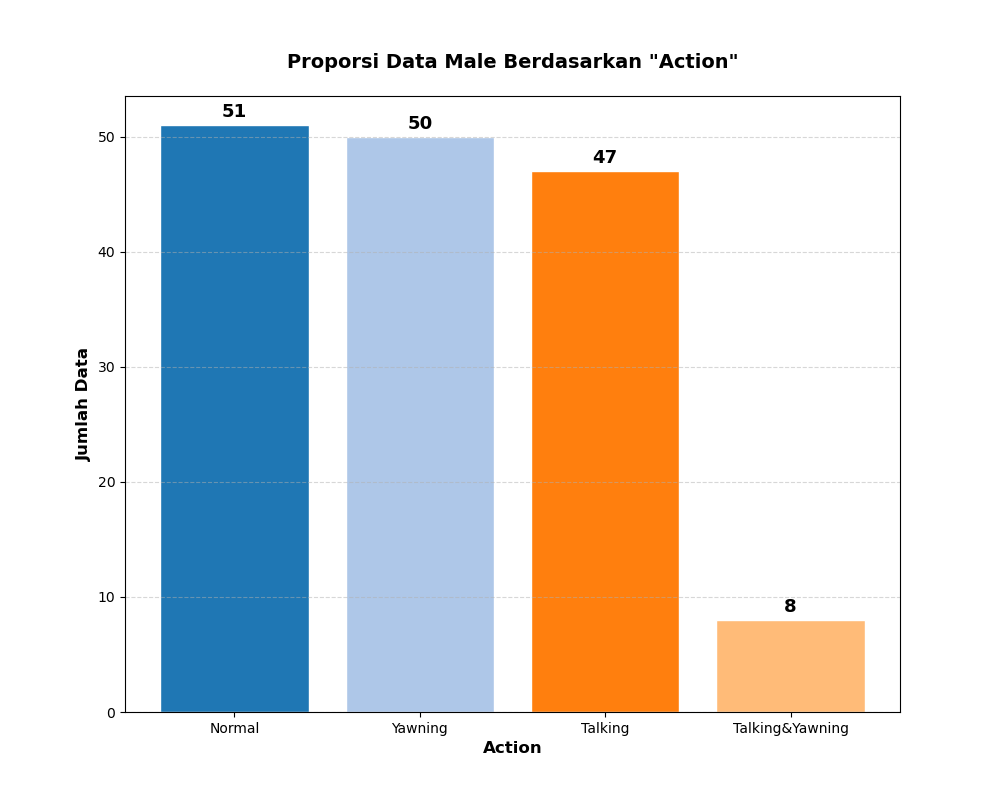
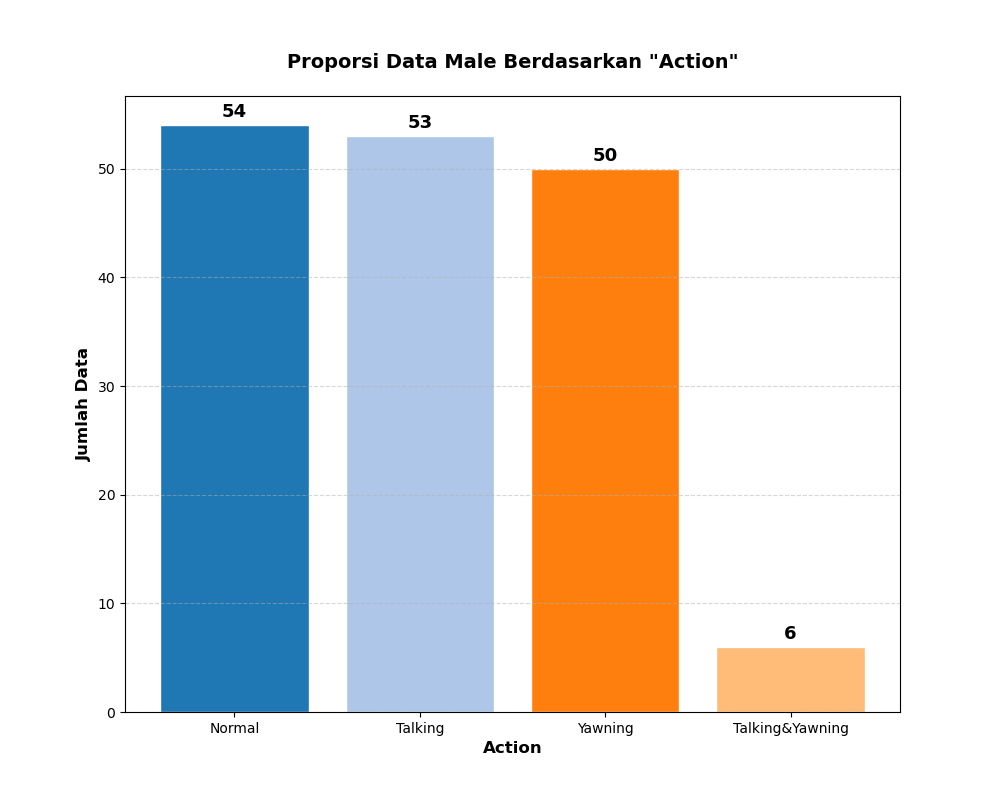
perbaikii plot

diff --git a/chapters/ch04/index.tex b/chapters/ch04/index.tex
@@ -94,7 +94,7 @@
              \label{male gambar1}
      \end{figure}
 
-    Pada kategori data \textit{male} terdapat total 162 video (.avi). Berdasarkan deskripsi data pada fitur \textit{"action"} mencakup kondisi seperti \textit{"talking"}, \textit{"yawning"}, \textit{"normal"} dan \textit{"yawning \& talking"}. Proporsi dan persentase data berdasarkan fitur \textit{action} pada kategori \textit{male} ditamilkan pada Gambar \ref{Proporsi Data Male Berdasarkan "Action"} berikut.
+    Pada kategori data \textit{male} terdapat total 163 video (.avi). Berdasarkan deskripsi data pada fitur \textit{"action"} mencakup kondisi seperti \textit{"talking"}, \textit{"yawning"}, \textit{"normal"} dan \textit{"yawning \& talking"}. Proporsi dan persentase data berdasarkan fitur \textit{action} pada kategori \textit{male} ditamilkan pada Gambar \ref{Proporsi Data Male Berdasarkan "Action"} berikut.
     
 
    
@@ -204,7 +204,7 @@
 
    
 
-     Terdapat 154 video pada kategori \textit{"female"}, fitur \textit{action} pada data mencakup keadaan \textit{"yawning"}, \textit{"talking"},\textit{"normal"} dan \textit{"yawning \& talking"}. Berikut proprosi untuk kategori \textit{action} di tampilkan pada Gambar \ref{Proporsi Data Female Berdasarkan "Action"} berikut.
+     Terdapat 156 video pada kategori \textit{"female"}, fitur \textit{action} pada data mencakup keadaan \textit{"yawning"}, \textit{"talking"},\textit{"normal"} dan \textit{"yawning \& talking"}. Berikut proprosi untuk kategori \textit{action} di tampilkan pada Gambar \ref{Proporsi Data Female Berdasarkan "Action"} berikut.
 
      \begin{figure}[H]
          \centering
@@ -213,7 +213,12 @@
          \label{Proporsi Data Female Berdasarkan "Action"}
      \end{figure}
 
-        Setelah dilakukan pemilihan fitur berdasarkan kolom \textit{action}, yaitu hanya keadaan \textit{"yawning"} dan \textit{"talking \& yawning"} yang dipilih. Dihasilkan jumlah data untuk kategori \textit{female} sebanyak 58 video. Data \textit{female} setelah dilakukan pemilihan fitur ditampilkan pada Tabel \ref{Data female setelah dilakukan pemilihan fitur} berikut.
+        Setelah dilakukan pemilihan fitur berdasarkan kolom 
+        \textit{action}, yaitu hanya keadaan \textit{"yawning"} dan
+         \textit{"talking \& yawning"} yang dipilih. Dihasilkan 
+         jumlah data untuk kategori \textit{female} sebanyak 58 video. 
+         Data \textit{female} setelah dilakukan pemilihan fitur 
+         ditampilkan pada Tabel \ref{Data female setelah dilakukan pemilihan fitur} berikut.
 
         \begin{table}[H]
 \centering
